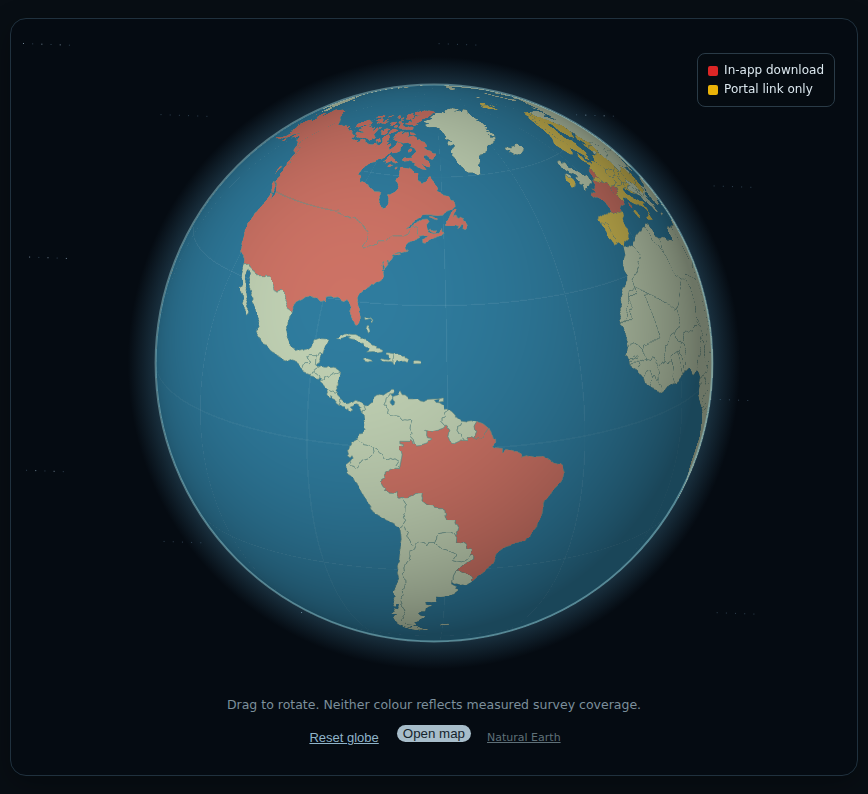
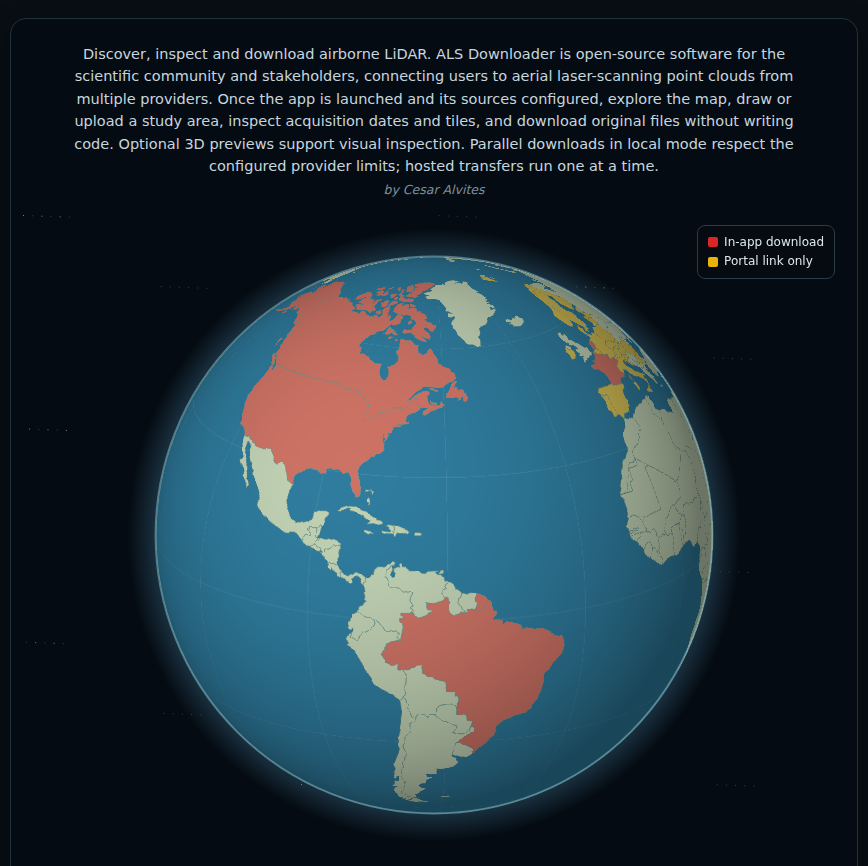
Add a short mission statement and author credit to the Explore/globe screen
Per the maintainer: this screen is the app's first impression, so it
should carry a brief description of what the app does and who made
it, not just the globe and legend. Reuse the existing README opening
paragraph verbatim (80 words, already-reviewed copy, nothing new
invented) plus a 'by Cesar Alvites' credit line, placed above the
globe. Regenerate docs/images/interface-globe.png to match.

diff --git a/inst/app/www/explorer.css b/inst/app/www/explorer.css
@@ -4,7 +4,7 @@
 .als-header-actions{display:flex;align-items:center;gap:16px;flex-wrap:wrap}.als-header-actions .btn{margin:0}.modal-content{background:#111c26;color:#e0eaf0}.modal-header,.modal-footer{border-color:#415362}.modal-body pre{white-space:pre-wrap;overflow-wrap:anywhere;background:#1b2b38;color:#e0eaf0;border-color:#415362}.modal-body .help-block{font-size:13px}.modal-body .btn{white-space:normal}
 .als-tile-preview{margin-top:20px;padding-top:8px;border-top:1px solid #415362}.als-point-cloud{display:block;width:100%;height:460px;background:radial-gradient(ellipse,#162531,#080e14);touch-action:none;cursor:grab}.als-point-cloud:focus{outline:2px solid #a7bdca}.als-tile-preview .row{margin-top:16px}#tile_preview_status{padding:10px 0;overflow-wrap:anywhere}@media(max-width:850px){.als-point-cloud{height:320px}}
 #tile_selection{overflow-wrap:anywhere}
-.als-globe-intro{text-align:center;padding:24px 12px;background:#050b12;border:1px solid #20313e;border-radius:16px}.als-globe-wrap{position:relative;width:100%;max-width:1120px;margin:auto}#als-globe{display:block;width:100%;height:640px;touch-action:none;cursor:grab}#als-globe:focus{outline:1px solid #a7bdca}.als-globe-legend{position:absolute;top:10px;right:10px;background:rgba(5,11,18,.8);border:1px solid #2a3b47;border-radius:8px;padding:7px 10px;font-size:12px;line-height:1.6;color:#dbe7ee;text-align:left;pointer-events:none}.als-globe-legend-row{display:flex;align-items:center;gap:6px;white-space:nowrap}.als-globe-swatch{width:10px;height:10px;border-radius:2px;flex:none}.als-globe-swatch-red{background:#dc2626}.als-globe-swatch-yellow{background:#eab308}.als-globe-caption{max-width:640px;margin:14px auto 0;color:#7c8f9b;font-size:12.5px}.als-globe-actions{display:flex;align-items:center;justify-content:center;gap:16px;flex-wrap:wrap;margin-top:12px}.als-link-btn{background:none;border:0;color:#8fb4c9;text-decoration:underline;cursor:pointer;padding:6px 2px;font-size:13px}.als-link-btn:hover,.als-link-btn:focus{color:#c3dbe6}.als-globe-credit{font-size:11px;color:#5f7078}@media(max-width:850px){#als-globe{height:400px}.als-globe-legend{font-size:10.5px;padding:5px 8px}}
+.als-globe-intro{text-align:center;padding:24px 12px;background:#050b12;border:1px solid #20313e;border-radius:16px}.als-globe-mission{max-width:720px;margin:0 auto 4px;color:#c7d6df;font-size:14.5px;line-height:1.55}.als-globe-author{margin:0 0 18px;color:#7c8f9b;font-size:12.5px;font-style:italic}.als-globe-wrap{position:relative;width:100%;max-width:1120px;margin:auto}#als-globe{display:block;width:100%;height:640px;touch-action:none;cursor:grab}#als-globe:focus{outline:1px solid #a7bdca}.als-globe-legend{position:absolute;top:10px;right:10px;background:rgba(5,11,18,.8);border:1px solid #2a3b47;border-radius:8px;padding:7px 10px;font-size:12px;line-height:1.6;color:#dbe7ee;text-align:left;pointer-events:none}.als-globe-legend-row{display:flex;align-items:center;gap:6px;white-space:nowrap}.als-globe-swatch{width:10px;height:10px;border-radius:2px;flex:none}.als-globe-swatch-red{background:#dc2626}.als-globe-swatch-yellow{background:#eab308}.als-globe-caption{max-width:640px;margin:14px auto 0;color:#7c8f9b;font-size:12.5px}.als-globe-actions{display:flex;align-items:center;justify-content:center;gap:16px;flex-wrap:wrap;margin-top:12px}.als-link-btn{background:none;border:0;color:#8fb4c9;text-decoration:underline;cursor:pointer;padding:6px 2px;font-size:13px}.als-link-btn:hover,.als-link-btn:focus{color:#c3dbe6}.als-globe-credit{font-size:11px;color:#5f7078}@media(max-width:850px){#als-globe{height:400px}.als-globe-legend{font-size:10.5px;padding:5px 8px}}
 .als-main{overflow-x:clip}
 #compare_status,#compare_gate,#difference_summary{padding:10px 0;overflow-wrap:anywhere}#compare_metadata{white-space:pre-wrap;overflow-wrap:anywhere;background:#14232e;color:#e0eaf0}.selectize-input{overflow-wrap:anywhere}
 
